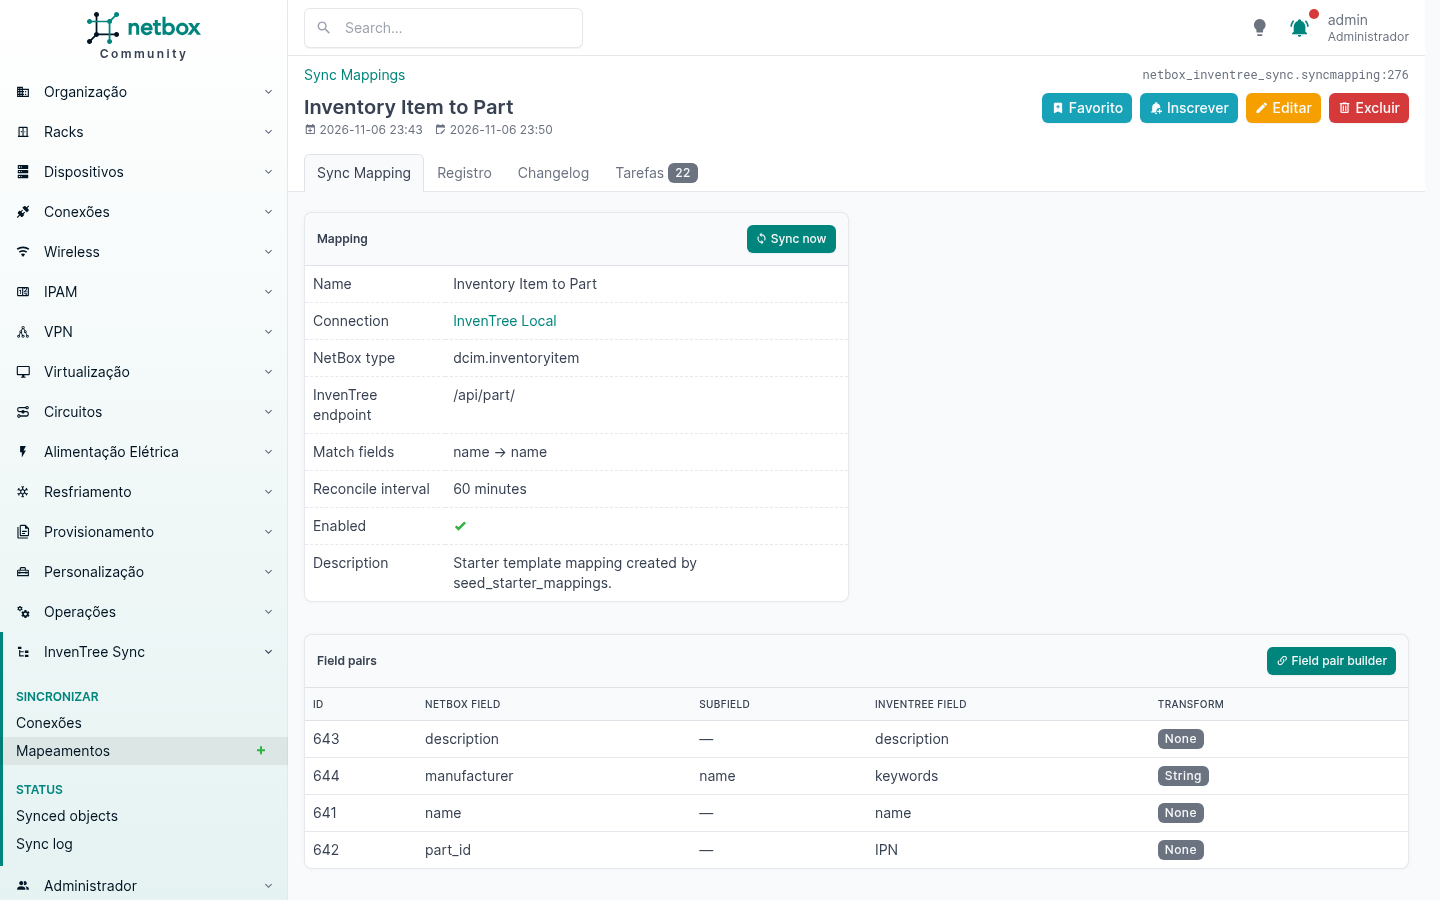
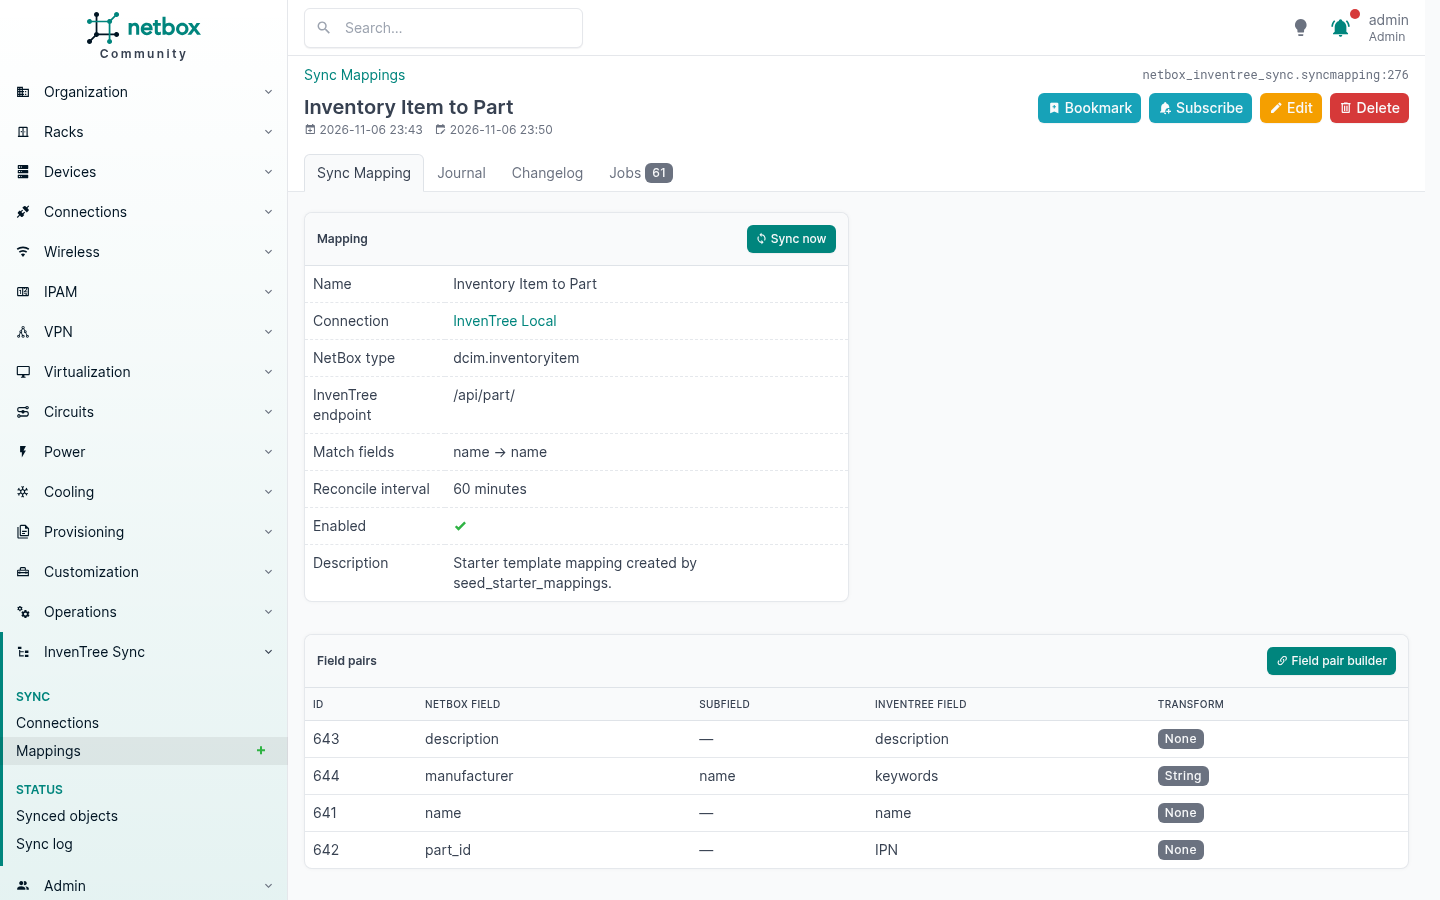
fix: queue-level job cancellation, orphan-schedule guard, add-form gate; docs: English screenshots (closes #3)
- _cancel_enqueued_jobs deletes per instance so Job.delete() cancels the
  RQ entry too (a queryset delete left the queue entry alive: the worker
  would resurrect the deleted row and reschedule an immortal chain).
- MappingJob.handle guard retires jobs whose mapping no longer exists —
  no run, no successor — closing the running-job race NetBox's
  unconditional finally-reschedule leaves open.
- The UI form's cycle gate reflects the submitted connection/type/
  endpoint before validating (Add-with-enabled used to 500 on the
  unsaved instance's missing FK; compound edits validated stale state).
- Ships the AlterField migration for reconcile_interval_minutes
  validators; import-order nit fixed.
- README screenshots retaken with the NetBox UI in English; stale
  locale note and builder caption updated.

diff --git a/netbox_inventree_sync/tests/test_models.py b/netbox_inventree_sync/tests/test_models.py
@@ -174,3 +174,50 @@ class MappingDeletionCascadeTestCase(TestCase):
             ).exists(),
             'deleting a mapping must cancel its scheduled and pending jobs',
         )
+        # …and the cancellation reaches the queue itself: the orphaned RQ
+        # entries (which carry the job and its run kwargs BY VALUE) must
+        # be gone, not just the database rows.
+        import django_rq
+
+        for name in (ReconcileJob.name, ObjectSyncJob.name):
+            for job in Job.objects.filter(name=name, object_id=mapping.pk):
+                self.assertIsNone(
+                    django_rq.get_queue(job.queue_name).fetch_job(str(job.job_id))
+                )
+
+    def test_mapping_job_handle_retires_orphaned_schedule(self):
+        """A job whose mapping vanished mid-flight is retired, not rescheduled.
+
+        NetBox's JobRunner.handle reschedules interval jobs even after an
+        errored run — a job surviving its mapping (e.g. claimed by a
+        worker just before deletion) would otherwise resurrect itself
+        with DoesNotExist every interval, each successor detached from
+        the mapping. The MappingJob guard retires it: no run, no
+        successor.
+        """
+        from core.choices import JobStatusChoices
+        from core.models import Job, ObjectType
+        from netbox_inventree_sync.jobs import ReconcileJob
+
+        ghost_pk = (SyncMapping.objects.order_by('-pk').first().pk if SyncMapping.objects.exists() else 0) + 9999
+        job = Job.objects.create(
+            name=ReconcileJob.name,
+            object_type=ObjectType.objects.get_for_model(SyncMapping, for_concrete_model=False),
+            object_id=ghost_pk,
+            status=JobStatusChoices.STATUS_PENDING,
+            interval=60,
+            job_id='0199cccc-dead-beef-9999-000000000001',
+        )
+
+        ReconcileJob.handle(job, mapping_id=ghost_pk)
+
+        job.refresh_from_db()
+        self.assertEqual(job.status, JobStatusChoices.STATUS_FAILED)
+        self.assertIn('no longer exists', job.error)
+        self.assertFalse(
+            Job.objects.filter(
+                name=ReconcileJob.name,
+                status__in=JobStatusChoices.ENQUEUED_STATE_CHOICES,
+            ).exclude(pk=job.pk).exists(),
+            'no successor may be scheduled for a retired mapping',
+        )

diff --git a/netbox_inventree_sync/jobs.py b/netbox_inventree_sync/jobs.py
@@ -1,6 +1,6 @@
 """Background jobs carrying the sync engine through NetBox's job machinery.
 
-Two :class:`~netbox.jobs.JobRunner` subclasses: ``ObjectSyncJob`` pushes
+Two :class:`~netbox.jobs.JobRunner` subclasses (via a shared :class:`MappingJob` guard that retires jobs whose mapping is gone — see its docstring): ``ObjectSyncJob`` pushes
 (or, on delete, deactivates) one mapped NetBox object, and ``ReconcileJob``
 drives one full
 :meth:`~netbox_inventree_sync.sync.engine.SyncEngine.reconcile_mapping`
@@ -32,7 +32,36 @@ def build_engine(connection):
     return SyncEngine(connection)
 
 
-class ObjectSyncJob(JobRunner):
+class MappingJob(JobRunner):
+    """Shared guard for jobs whose ``mapping_id`` must still exist.
+
+    NetBox's ``JobRunner.handle`` reschedules interval jobs from its
+    ``finally`` block *unconditionally* — even when ``run()`` errored —
+    so a job whose mapping was deleted mid-flight (or after its schedule
+    slipped past cancellation) would resurrect itself with
+    ``DoesNotExist`` every interval, forever, each successor detached
+    from the mapping. This guard retires such jobs cleanly instead: no
+    run, no successor.
+    """
+
+    class Meta:
+        name = 'InvenTree Sync'
+
+    @classmethod
+    def handle(cls, job, *args, **kwargs):
+        mapping_id = kwargs.get('mapping_id', job.object_id)
+        if mapping_id is not None and not SyncMapping.objects.filter(pk=mapping_id).exists():
+            from core.choices import JobStatusChoices
+            job.start()
+            job.terminate(
+                status=JobStatusChoices.STATUS_FAILED,
+                error=f'Sync mapping {mapping_id} no longer exists; schedule retired.',
+            )
+            return
+        return super().handle(job, *args, **kwargs)
+
+
+class ObjectSyncJob(MappingJob):
     """Push one mapped NetBox object, or deactivate its remote counterpart.
 
     ``deleted=False`` runs the engine's ``sync_object`` (create/adopt/
@@ -64,7 +93,7 @@ class ObjectSyncJob(JobRunner):
         )
 
 
-class ReconcileJob(JobRunner):
+class ReconcileJob(MappingJob):
     """Re-verify and repair every link of one mapping against InvenTree.
 
     Runs the engine's authoritative three-pass reconcile (verify synced

diff --git a/netbox_inventree_sync/tests/test_ui.py b/netbox_inventree_sync/tests/test_ui.py
@@ -139,6 +139,39 @@ class ConnectionUITestCase(PluginUITestCase):
 
 class MappingUITestCase(PluginUITestCase):
 
+    def test_mapping_add_with_enabled_no_500(self):
+        """Creating an ENABLED mapping through the Add form works.
+
+        The form's cycle gate runs before construct_instance, so the
+        unsaved instance has no FKs yet — the gate must reflect the
+        submitted connection/type/endpoint instead of dereferencing
+        None (which 500'd the Add form when 'enabled' was checked).
+        """
+        from unittest import mock as _mock
+
+        from dcim.models import Site
+        from netbox_inventree_sync.sync import validation
+        from netbox_inventree_sync.tests.test_api import StubInvenTreeClient
+
+        add_url = reverse('plugins:netbox_inventree_sync:syncmapping_add')
+        with _mock.patch.object(validation, 'InvenTreeClient', StubInvenTreeClient):
+            response = self.client.post(add_url, {
+                'name': 'UI-born enabled mapping',
+                'connection': self.connection.pk,
+                'netbox_content_type': ContentType.objects.get_for_model(Site).pk,
+                'inventree_endpoint': '/api/company/',
+                'match_netbox_field': '',
+                'match_inventree_field': '',
+                'reconcile_interval_minutes': 60,
+                'enabled': 'on',
+                'description': '',
+            })
+
+        self.assertEqual(response.status_code, 302, response.content)
+        self.assertTrue(
+            SyncMapping.objects.filter(name='UI-born enabled mapping', enabled=True).exists()
+        )
+
     def test_mapping_enable_via_ui_closes_cycle_rejected(self):
         """Enabling a mapping through the UI edit form runs the cycle gate.
 

diff --git a/netbox_inventree_sync/forms.py b/netbox_inventree_sync/forms.py
@@ -117,12 +117,20 @@ class SyncMappingForm(NetBoxModelForm):
         # NetBox mixins may return None from clean(); self.cleaned_data
         # is always populated at this point.
         cleaned_data = super().clean() or self.cleaned_data
+        if self.errors:  # field-level errors already collected
+            return cleaned_data
         if not cleaned_data.get('enabled'):
             return cleaned_data
 
-        # Reflect the submitted state onto the instance for the graph
-        # walk (node membership depends on `enabled`); the stored pairs
-        # of an existing mapping are the pending pair set on this form.
+        # Reflect the submitted graph-relevant state onto the instance
+        # before the walk: on ADD the instance is unsaved with no FKs
+        # yet (clean() runs before construct_instance), and on EDIT a
+        # compound post (enable + new endpoint/type/connection) must be
+        # validated against what is being submitted, not the stale
+        # persisted state — the REST gate validates exactly that.
+        for field in ('connection', 'netbox_content_type', 'inventree_endpoint'):
+            if field in cleaned_data:
+                setattr(self.instance, field, cleaned_data[field])
         self.instance.enabled = True
         try:
             validate_mapping_graph_for_write(self.instance)

diff --git a/netbox_inventree_sync/models.py b/netbox_inventree_sync/models.py
@@ -155,17 +155,20 @@ class SyncMapping(JobsMixin, NetBoxModel):
         Recurring and one-shot, both job classes: an enqueued job whose
         mapping is gone just errors with ``DoesNotExist`` (and an
         interval job would be rescheduled into that error forever).
-        ``Job.delete()`` also cancels the associated RQ entry.
+        Deleted per-instance — ``Job.delete()`` (unlike a queryset
+        delete) also cancels the associated RQ entry.
         """
         from core.choices import JobStatusChoices
         from core.models import Job, ObjectType
         from netbox_inventree_sync.jobs import ObjectSyncJob, ReconcileJob
-        Job.objects.filter(
+        jobs = Job.objects.filter(
             name__in=[ReconcileJob.name, ObjectSyncJob.name],
             object_type=ObjectType.objects.get_for_model(SyncMapping, for_concrete_model=False),
             object_id=self.pk,
             status__in=JobStatusChoices.ENQUEUED_STATE_CHOICES,
-        ).delete()
+        )
+        for job in jobs:
+            job.delete()
 
     def _cancel_reconcile_schedule(self):
         """Delete any still-enqueued recurring reconcile jobs of this mapping."""

diff --git a/netbox_inventree_sync/migrations/0002_field_validators.py b/netbox_inventree_sync/migrations/0002_field_validators.py
@@ -1,0 +1,17 @@
+import django.core.validators
+from django.db import migrations, models
+
+
+class Migration(migrations.Migration):
+
+    dependencies = [
+        ('netbox_inventree_sync', '0001_initial'),
+    ]
+
+    operations = [
+        migrations.AlterField(
+            model_name='syncmapping',
+            name='reconcile_interval_minutes',
+            field=models.PositiveSmallIntegerField(default=60, validators=[django.core.validators.MinValueValidator(1)]),
+        ),
+    ]

diff --git a/README.md b/README.md
@@ -178,14 +178,14 @@ in *Sync Log*.
 ## Seeing it in action
 
 The screenshots below show how the application works, taken from the
-live dev stack (the seeded `admin` user's locale is pt-BR, so the NetBox
-UI is in Portuguese). First, the mapping's **field-pair builder**: NetBox
+live dev stack. First, the mapping's **field-pair builder**: NetBox
 fields on the left, the InvenTree endpoint's fields on the right, linked
 pairs with type badges — and options whose types don't accept the
 selected NetBox field are greyed out (the helper line under the selects
-says so; the server enforces it on save). This example maps
-Manufacturer → `/api/company/` with `name→name` and
-`description→description`:
+says so; the server enforces it on save). This example is the starter
+Inventory Item → Part mapping (name→name, part_id→IPN,
+description→description, and the manufacturer pointer rendered as text
+into keywords):
 
 ![NetBox: the field-pair builder with linked pairs and type badges](docs/screenshots/netbox-mapping-builder.png)
 
